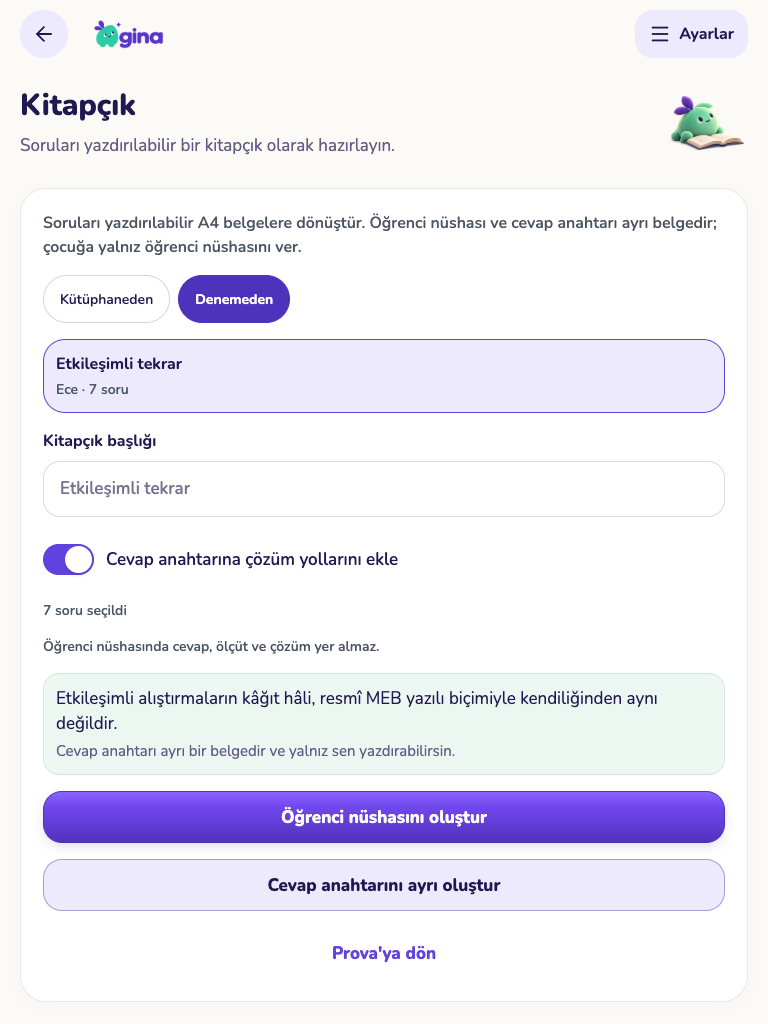
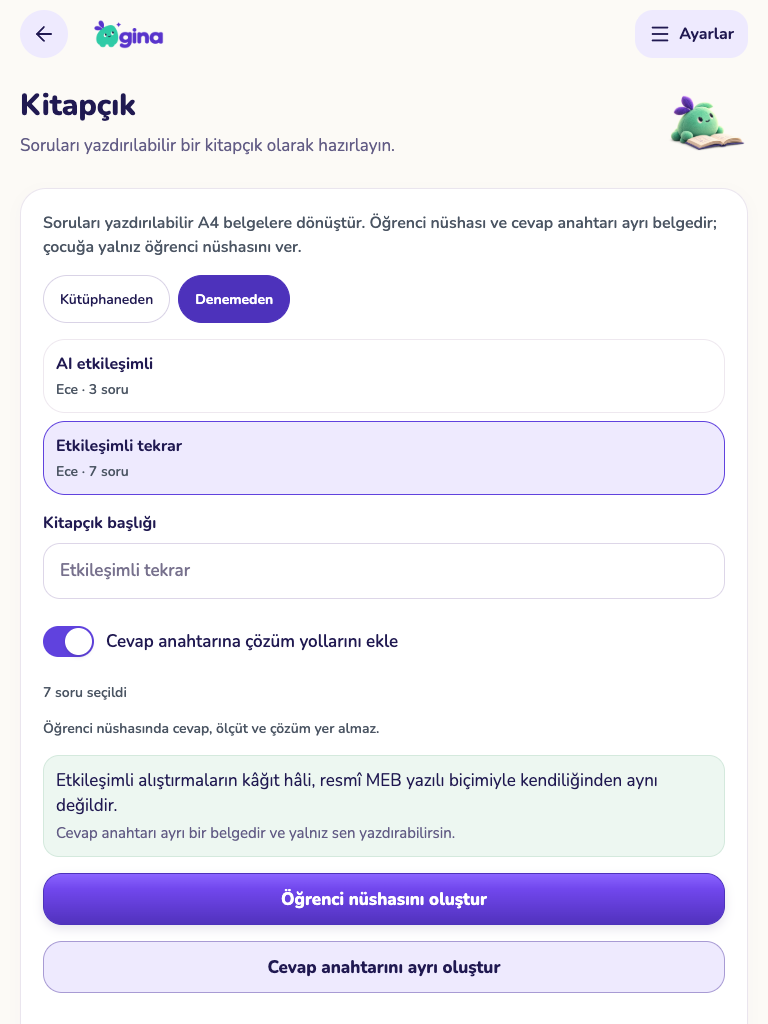
QT-AI evidence: mocked prova-generate stage in the parent UI check
Local mock endpoint behind the loopback proxy (no AI provider): written track limits the type
chips and sends the legacy body when nothing is chosen; ai_model_unsupported shown as calm text;
three structured AI rows render with the structured preview/key, are added to the draft and the
exam binds them. Screens and PDFs regenerated.

Changed region(s): [[0.0312, 0.5938, 0.9688, 0.9688], [0.0312, 0.4062, 0.5312, 0.5625], [0.0625, 0.3438, 0.25, 0.375]]

diff --git a/docs/release/qt-2026-11-07/screens/author/booklet-student.html b/docs/release/qt-2026-11-07/screens/author/booklet-student.html
@@ -73,7 +73,7 @@ h1, h2, h3 { font-family: "Baloo 2", "Nunito", -apple-system, "Segoe UI", Roboto
   <div class="tag">Karma tekrar · Orta üstü</div>
   <div class="head"><span class="num">2.</span><span>Boşlukları uygun kelimelerle doldur.</span></div>
   
-  <div class="qt qt-fill"><div class="help">Boşlukları kutudaki kelimelerle doldur. Her kelimeyi bir kez kullan.</div><div class="fill">Su sıfır derecede donunca <span class="blank"><sup>1</sup></span> hâle geçer, ısıtılınca <span class="blank"><sup>2</sup></span> olur.</div><div class="bank"><b>Kelimeler:</b> <span>sıvı</span><span>buhar</span><span>katı</span></div></div>
+  <div class="qt qt-fill"><div class="help">Boşlukları kutudaki kelimelerle doldur. Her kelimeyi bir kez kullan.</div><div class="fill">Su sıfır derecede donunca <span class="blank"><sup>1</sup></span> hâle geçer, ısıtılınca <span class="blank"><sup>2</sup></span> olur.</div><div class="bank"><b>Kelimeler:</b> <span>buhar</span><span>sıvı</span><span>katı</span></div></div>
 </div>
 
 <div class="q">
@@ -87,7 +87,7 @@ h1, h2, h3 { font-family: "Baloo 2", "Nunito", -apple-system, "Segoe UI", Roboto
   <div class="tag">Karma tekrar · Orta üstü</div>
   <div class="head"><span class="num">4.</span><span>Organları görevleriyle eşleştir.</span></div>
   
-  <div class="qt qt-match"><div class="help">Soldaki her öğenin kutusuna sağdaki eşinin harfini yaz. Sağda fazladan seçenek olabilir.</div><table><tbody><tr><td><b>1.</b> Kalp<span class="slot"></span></td><td><b>A)</b> Görmeyi sağlar</td></tr><tr><td><b>2.</b> Akciğer<span class="slot"></span></td><td><b>B)</b> Sindirime yardım eder</td></tr><tr><td><b>3.</b> Göz<span class="slot"></span></td><td><b>C)</b> Solunumu sağlar</td></tr><tr><td></td><td><b>D)</b> Kanı pompalar</td></tr></tbody></table></div>
+  <div class="qt qt-match"><div class="help">Soldaki her öğenin kutusuna sağdaki eşinin harfini yaz. Sağda fazladan seçenek olabilir.</div><table><tbody><tr><td><b>1.</b> Kalp<span class="slot"></span></td><td><b>A)</b> Kanı pompalar</td></tr><tr><td><b>2.</b> Akciğer<span class="slot"></span></td><td><b>B)</b> Solunumu sağlar</td></tr><tr><td><b>3.</b> Göz<span class="slot"></span></td><td><b>C)</b> Sindirime yardım eder</td></tr><tr><td></td><td><b>D)</b> Görmeyi sağlar</td></tr></tbody></table></div>
 </div>
 
 <div class="q">
@@ -101,12 +101,12 @@ h1, h2, h3 { font-family: "Baloo 2", "Nunito", -apple-system, "Segoe UI", Roboto
   <div class="tag">Karma tekrar · Orta üstü</div>
   <div class="head"><span class="num">6.</span><span>Kelimelerle anlamlı bir cümle kur.</span></div>
   
-  <div class="qt qt-order"><div class="help">Kelimeleri sıraya koyarak cümleyi kur; harflerini kutulara sırayla yaz.</div><table><tbody><tr><td><b>A)</b> okula</td></tr><tr><td><b>B)</b> gitti</td></tr><tr><td><b>C)</b> Ali</td></tr></tbody></table><div class="slots"><span>1.<span class="slot"></span></span><span>2.<span class="slot"></span></span><span>3.<span class="slot"></span></span></div><div class="lines" style="margin-left:0"><div></div></div></div>
+  <div class="qt qt-order"><div class="help">Kelimeleri sıraya koyarak cümleyi kur; harflerini kutulara sırayla yaz.</div><table><tbody><tr><td><b>A)</b> okula</td></tr><tr><td><b>B)</b> Ali</td></tr><tr><td><b>C)</b> gitti</td></tr></tbody></table><div class="slots"><span>1.<span class="slot"></span></span><span>2.<span class="slot"></span></span><span>3.<span class="slot"></span></span></div><div class="lines" style="margin-left:0"><div></div></div></div>
 </div>
 
 <div class="q">
   <div class="tag">Karma tekrar · Orta üstü</div>
   <div class="head"><span class="num">7.</span><span>Canlıları gruplarına ayır.</span></div>
   
-  <div class="qt qt-class"><div class="help">Her öğenin harfini ait olduğu grubun altına yaz.</div><table><tbody><tr><td><b>A)</b> Kedi</td></tr><tr><td><b>B)</b> Kartal</td></tr><tr><td><b>C)</b> Papatya</td></tr></tbody></table><table class="grid" style="margin-top:2mm"><thead><tr><th>Hayvan <span class="help">(en çok 2)</span></th><th>Bitki</th></tr></thead><tbody><tr><td class="cell"></td><td class="cell"></td></tr><tr><td class="cell"></td><td class="cell"></td></tr><tr><td class="cell"></td><td class="cell"></td></tr></tbody></table></div>
+  <div class="qt qt-class"><div class="help">Her öğenin harfini ait olduğu grubun altına yaz.</div><table><tbody><tr><td><b>A)</b> Papatya</td></tr><tr><td><b>B)</b> Kartal</td></tr><tr><td><b>C)</b> Kedi</td></tr></tbody></table><table class="grid" style="margin-top:2mm"><thead><tr><th>Hayvan <span class="help">(en çok 2)</span></th><th>Bitki</th></tr></thead><tbody><tr><td class="cell"></td><td class="cell"></td></tr><tr><td class="cell"></td><td class="cell"></td></tr><tr><td class="cell"></td><td class="cell"></td></tr></tbody></table></div>
 </div></main></body></html>

diff --git a/docs/release/qt-2026-11-07/screens/author/booklet-answer-key.html b/docs/release/qt-2026-11-07/screens/author/booklet-answer-key.html
@@ -57,5 +57,5 @@ h1, h2, h3 { font-family: "Baloo 2", "Nunito", -apple-system, "Segoe UI", Roboto
 .key{page-break-before:auto;break-before:auto}</style></head><body>
 <section class="key">
   <h2>Cevap anahtarı</h2>
-  <table><thead><tr><th>#</th><th>Konular</th><th>Cevap anahtarı</th></tr></thead><tbody><tr><td>1</td><td>Karma tekrar</td><td><ul><li>a) <b>Y</b> · Ay kendi ışığını üretir.</li><li>b) <b>D</b> · Güneş bir yıldızdır.</li><li>c) <b>D</b> · Dünya Güneş’in çevresinde döner.</li></ul></td></tr><tr><td>2</td><td>Karma tekrar</td><td><ul><li>(1) <b>katı</b></li><li>(2) <b>buhar</b></li></ul></td></tr><tr><td>3</td><td>Karma tekrar</td><td><ul><li>(1) <b>Ankara / ANKARA</b></li></ul></td></tr><tr><td>4</td><td>Karma tekrar</td><td><ul><li>1 → <b>D</b> · Kalp — Kanı pompalar</li><li>2 → <b>C</b> · Akciğer — Solunumu sağlar</li><li>3 → <b>A</b> · Göz — Görmeyi sağlar</li></ul></td></tr><tr><td>5</td><td>Karma tekrar</td><td><b>150 cm</b><div class="note">1 m = 100 cm · ±0.5 kabul · Birim puanın %25'i · İşlem gerekli: veli puanlar.</div></td></tr><tr><td>6</td><td>Karma tekrar</td><td><ul><li>Kabul edilen sıra 1: <b>C, A, B</b> · Ali okula gitti</li><li>Kabul edilen sıra 2: <b>A, C, B</b> · okula Ali gitti</li></ul></td></tr><tr><td>7</td><td>Karma tekrar</td><td><ul><li>Hayvan: <b>A, B</b></li><li>Bitki: <b>C</b></li></ul></td></tr></tbody></table>
+  <table><thead><tr><th>#</th><th>Konular</th><th>Cevap anahtarı</th></tr></thead><tbody><tr><td>1</td><td>Karma tekrar</td><td><ul><li>a) <b>Y</b> · Ay kendi ışığını üretir.</li><li>b) <b>D</b> · Güneş bir yıldızdır.</li><li>c) <b>D</b> · Dünya Güneş’in çevresinde döner.</li></ul></td></tr><tr><td>2</td><td>Karma tekrar</td><td><ul><li>(1) <b>katı</b></li><li>(2) <b>buhar</b></li></ul></td></tr><tr><td>3</td><td>Karma tekrar</td><td><ul><li>(1) <b>Ankara / ANKARA</b></li></ul></td></tr><tr><td>4</td><td>Karma tekrar</td><td><ul><li>1 → <b>A</b> · Kalp — Kanı pompalar</li><li>2 → <b>B</b> · Akciğer — Solunumu sağlar</li><li>3 → <b>D</b> · Göz — Görmeyi sağlar</li></ul></td></tr><tr><td>5</td><td>Karma tekrar</td><td><b>150 cm</b><div class="note">1 m = 100 cm · ±0.5 kabul · Birim puanın %25'i · İşlem gerekli: veli puanlar.</div></td></tr><tr><td>6</td><td>Karma tekrar</td><td><ul><li>Kabul edilen sıra 1: <b>B, A, C</b> · Ali okula gitti</li><li>Kabul edilen sıra 2: <b>A, B, C</b> · okula Ali gitti</li></ul></td></tr><tr><td>7</td><td>Karma tekrar</td><td><ul><li>Hayvan: <b>B, C</b></li><li>Bitki: <b>A</b></li></ul></td></tr></tbody></table>
 </section></body></html>
